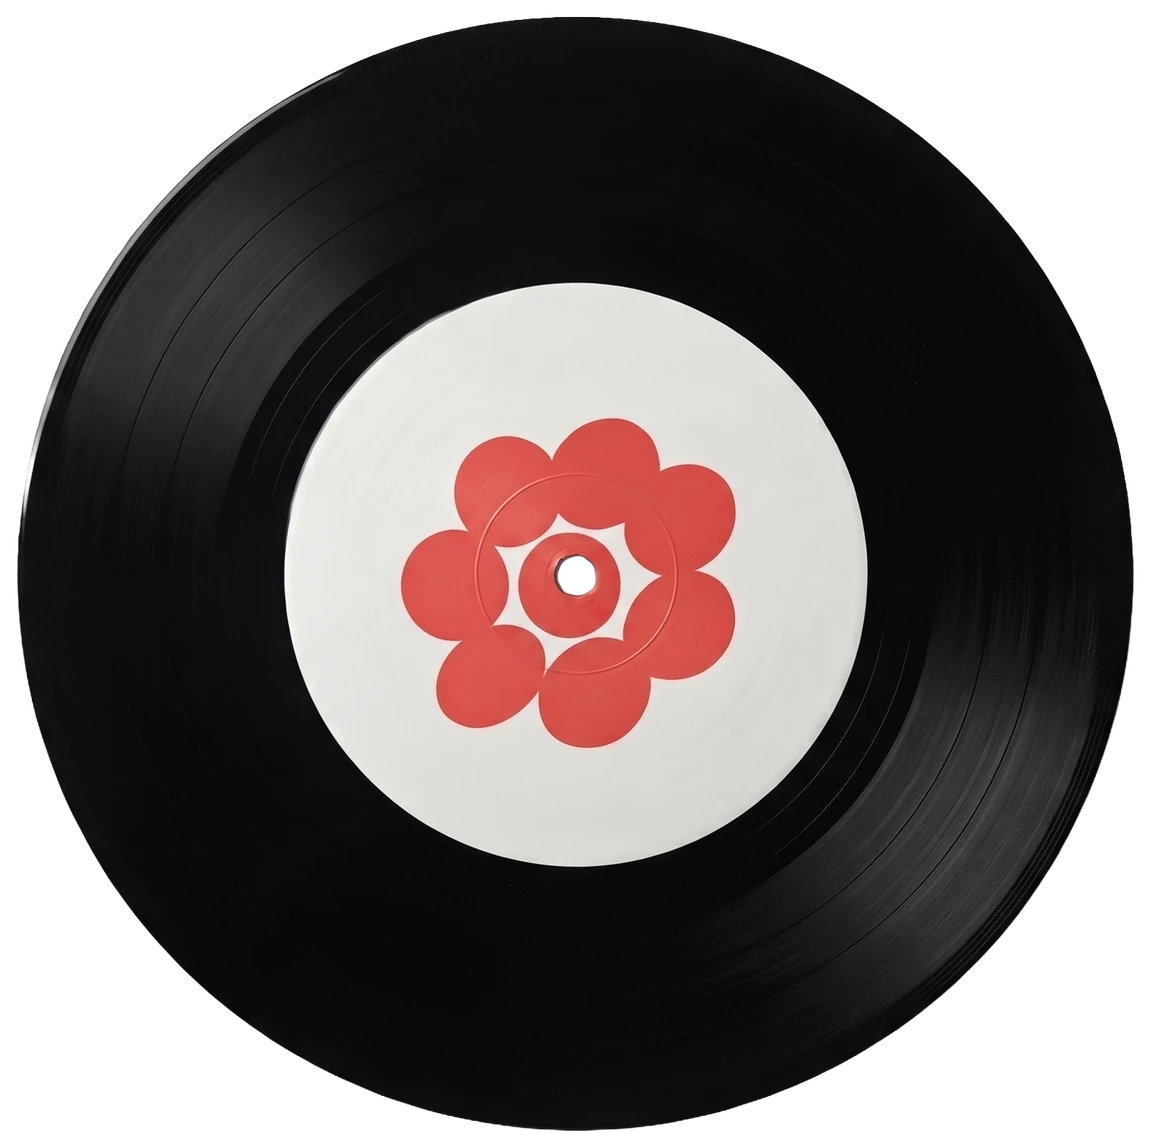
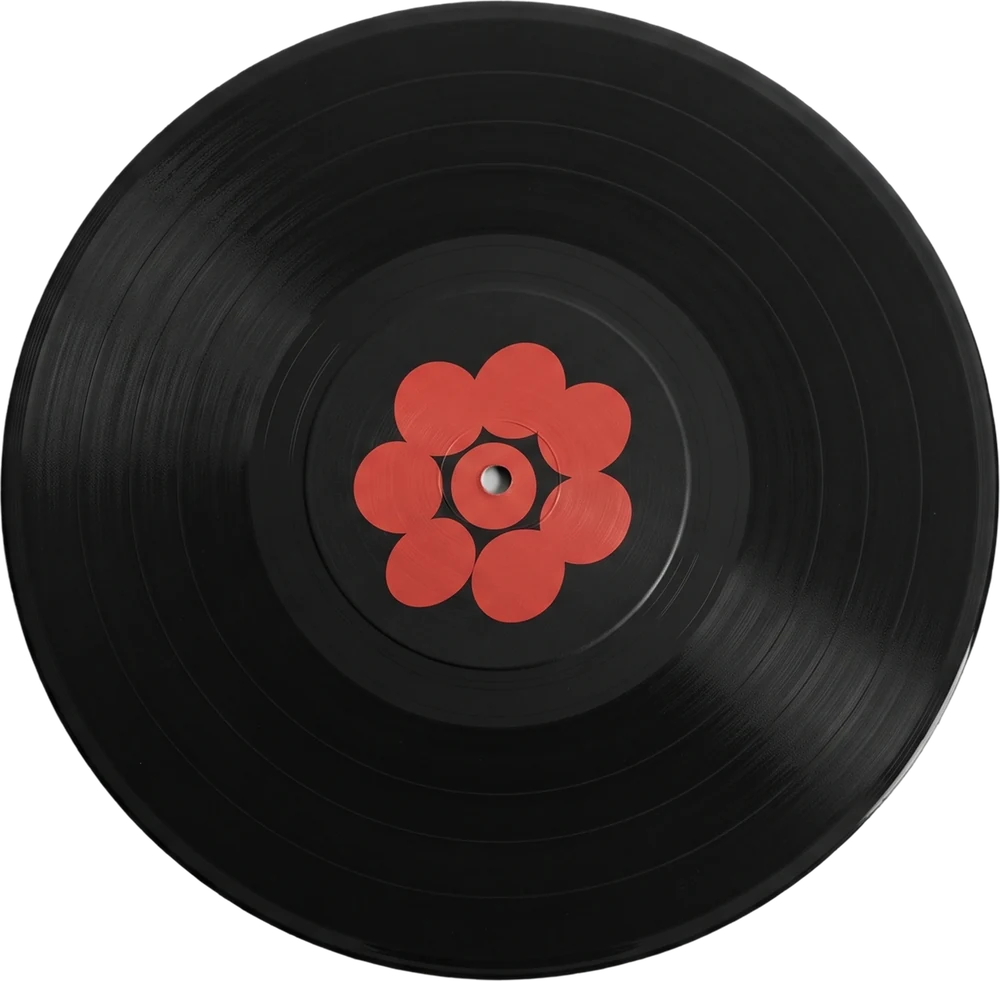
New Kanva vinyl cut-out; intro starts with "A graphic designer"
Claude-Session: https://claude.ai/code/session_01QeynNN9sgHemNmtMBCwfCa

diff --git a/index.html b/index.html
@@ -117,7 +117,7 @@ body.ready .ctl{opacity:1;transform:none;pointer-events:auto}
  <div id="pile" aria-hidden="true"></div>
  <h1>Hi! I’m<br>Yelyzaveta&nbsp;Volkova</h1>
  <div class="cols">
-  <p class="intro">I’m a graphic designer working between culture and marketing. I’ve made identities and visuals for film festivals, exhibitions and music labels, and ad creatives that have to perform. I enjoy designing things people stop for, for projects that make a difference.</p>
+  <p class="intro">A graphic designer working between culture and marketing. I’ve made identities and visuals for film festivals, exhibitions and music labels, and ad creatives that have to perform. I enjoy designing things people stop for, for projects that make a difference.</p>
   <nav class="work" aria-label="Selected work">
    <span class="lbl">Selected work</span>
    <ol>
@@ -155,9 +155,9 @@ const WORK=[
  {id:'chimera',no:'02',name:'Chimèra',desc:'Packaging design',ar:315/1200,size:.27,fill:.8,
   deck:[['chimera-01',1250,6072]],
   shape:[['r',.31,.015,.69,.37],['r',.02,.35,.985,.99]]},
- {id:'kanva',no:'03',name:'Kanva',desc:'Identity for a music label',ar:1150/1147,size:.18,fill:.78,
+ {id:'kanva',no:'03',name:'Kanva',desc:'Identity for a music label',ar:1000/981,size:.2,fill:.78,
   deck:[['kanva-01',1150,11000]],
-  shape:[['c',.5,.5,.487]]},
+  shape:[['c',.5,.5,.49]]},
  {id:'alta',no:'04',name:'Alta',desc:'Packaging design',ar:463/739,size:.22,fill:.9,
   deck:[['alta-01',1250,5181]],
   shape:[['r',.02,.04,.985,.98]]},
